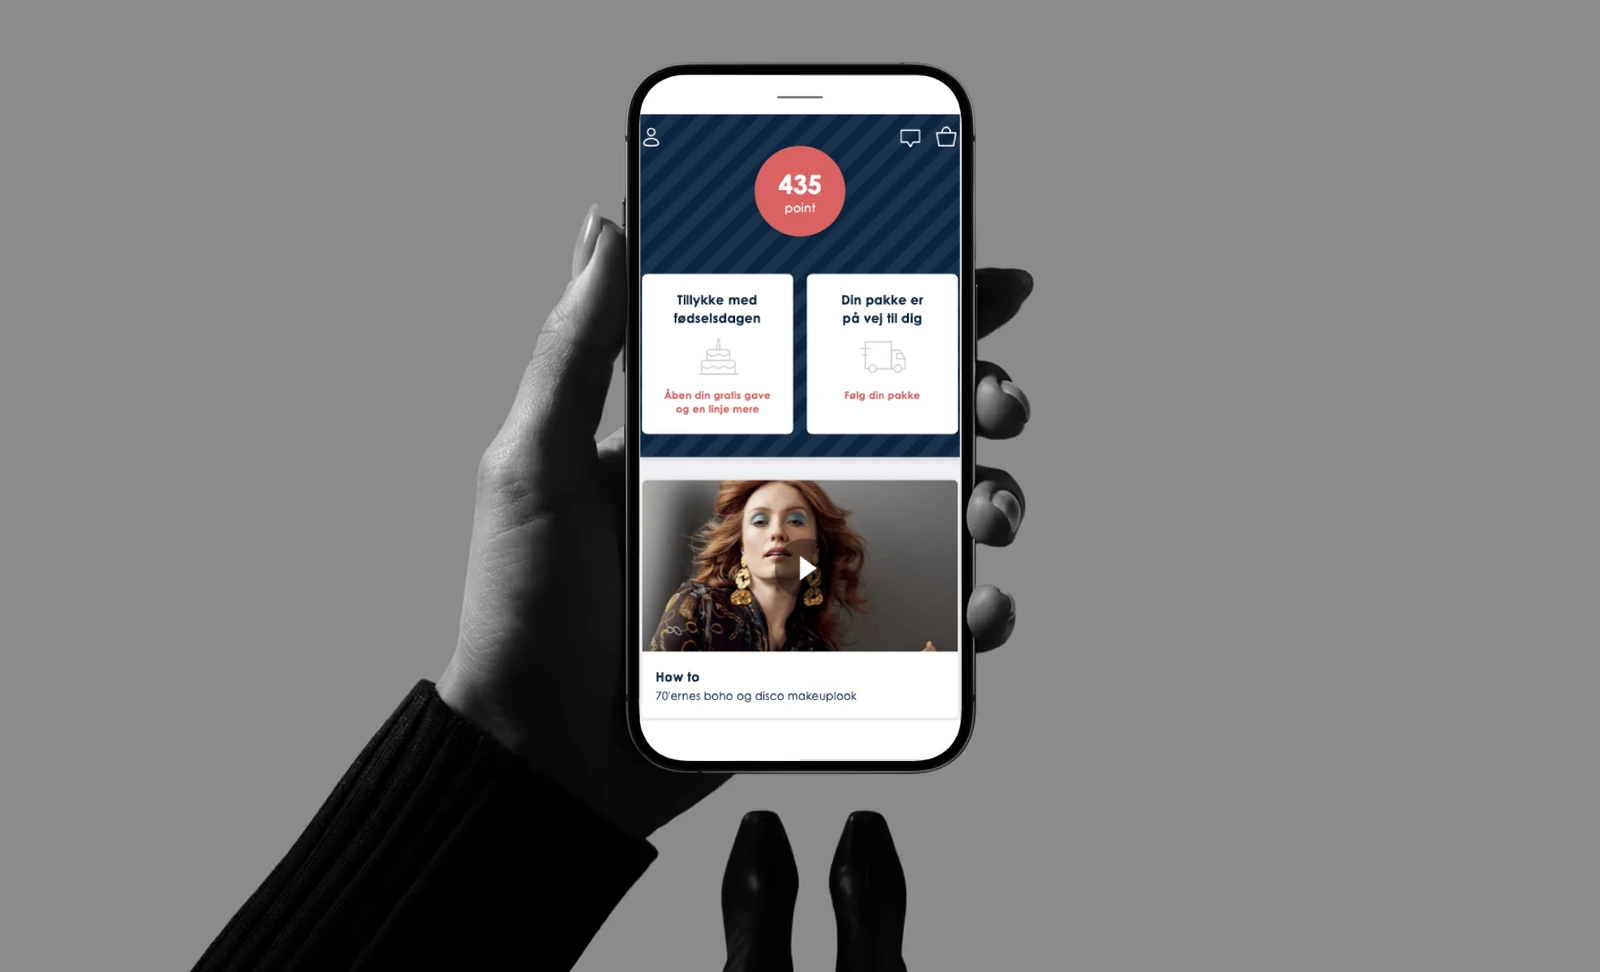
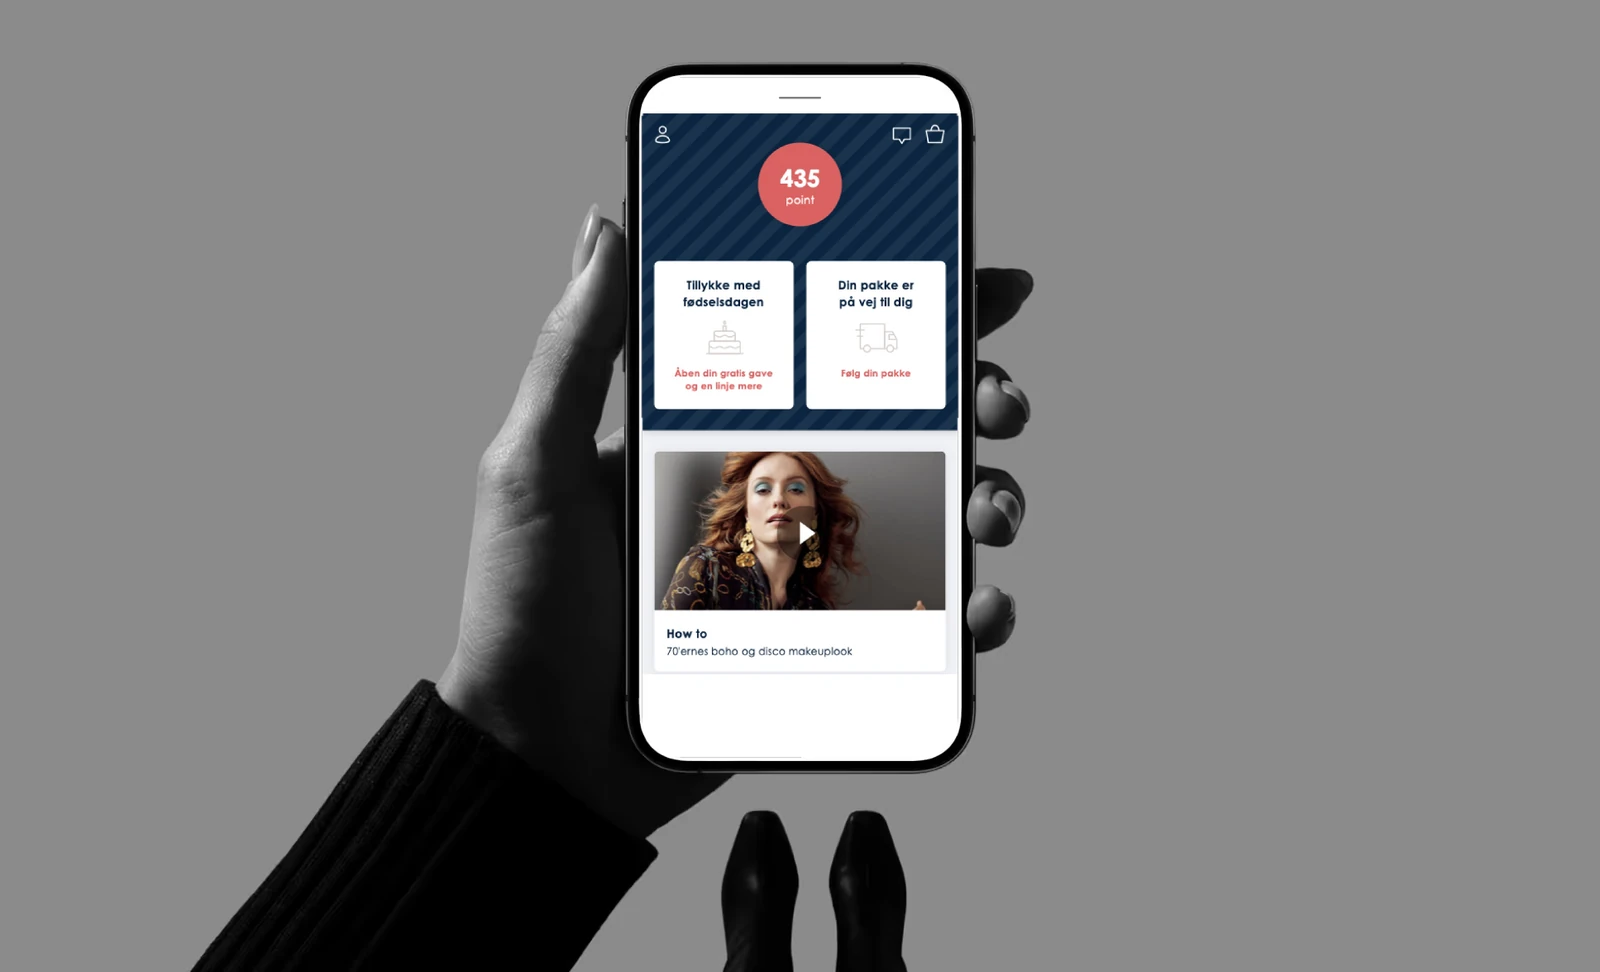
v2: put the hand back in front of the phone, and stop cropping the app screenshot
The pasted UI was covering everything the photograph draws over the glass —
the fingers curling past the bezel and the shadow they cast across the screen
edge — so each hand read as being behind the phone it was holding.

Brightness cannot tell the difference here. These mockups ship a placeholder
fintech app, so plenty of the screen is legitimately dark; a luminance ramp
punches that straight through, which is the same trap as the first version of
this script. Connectivity can tell: the hand is one mass of ~1.8M px that
reaches far outside the screen, while every dark element of the placeholder
lies wholly inside it. Only components with real area on both sides are held
back, and the held band ramps by luminance so a fingertip is solid and the
shadow's soft edge stays soft.

Connectivity alone over-reaches on one case: placeholder text that runs off the
edge touches the bezel and joins the hand's component, then ghosts through the
pasted UI. An opening separates them on stroke width, since a letter is a few px
thick and the shadow band is tens.

The quad is also pulled in 2.5px. Sampling across each fitted edge puts it
within ~2px of the glass, which is accurate but on the low side leaves the UI
bleeding onto the bezel.

Separately, the app screenshot is 0.500 against a 0.468 screen, and cover was
taking 6.4% off its width — the side margins are the layout, so it now keeps
its full width and grows downward instead. Its bottom 40 rows are flat white
[…]

Changed region(s): [[0.375, 0.1543, 0.625, 0.7407], [0.5625, 0.1235, 0.625, 0.1543], [0.375, 0.1235, 0.4375, 0.1543]]

diff --git a/tools/phone-composite.py b/tools/phone-composite.py
@@ -1,5 +1,5 @@
 import math, collections, os
-from PIL import Image, ImageDraw, ImageFilter
+from PIL import Image, ImageDraw, ImageFilter, ImageChops
 
 def hull(pts):
     pts=sorted(set(pts))
@@ -95,14 +95,73 @@ def screen_quad(path, thr=200):
     bl=min(bot,key=lambda k: math.dist(quad[k],quad[tl])); brc=bot[0] if bl==bot[1] else bot[1]
     return [quad[tl],quad[tr],quad[brc],quad[bl]], im
 
+def inset(q, d):
+    """Pull the quad in by d px along every edge. The fit lands within ~2px of the
+    glass, and on the low side the UI then bleeds onto the bezel."""
+    c=(sum(p[0] for p in q)/4, sum(p[1] for p in q)/4); lines=[]
+    for k in range(4):
+        a,b=q[k],q[(k+1)%4]
+        ex,ey=b[0]-a[0],b[1]-a[1]; L=math.hypot(ex,ey); ex,ey=ex/L,ey/L
+        nx,ny=-ey,ex
+        if (c[0]-a[0])*nx+(c[1]-a[1])*ny<0: nx,ny=-nx,-ny
+        lines.append(((a[0]+nx*d,a[1]+ny*d),(ex,ey)))
+    def it(l1,l2):
+        (x1,y1),(a1,b1)=l1; (x2,y2),(a2,b2)=l2
+        t=((x2-x1)*b2-(y2-y1)*a2)/(a1*b2-b1*a2); return (x1+a1*t,y1+b1*t)
+    return [it(lines[k-1],lines[k]) for k in range(4)]
+
+def occluders(base, quad, thr=235, lo=150):
+    """What sits in FRONT of the glass: the fingers curling over the edge and the
+    bezel shadow they cast across it. Brightness alone cannot say — these mockups
+    ship a placeholder app, so half the screen is legitimately dark. Connectivity
+    can: the hand is one enormous mass that reaches far outside the quad, while
+    every dark element of the placeholder lies wholly within it. Returns an alpha
+    where 255 keeps the UI; the held-back band ramps by luminance so a fingertip
+    is solid and the shadow's soft edge stays soft."""
+    w,h=base.size; g=base.convert('L'); gp=g.load()
+    inq=Image.new('L',(w,h),0); ImageDraw.Draw(inq).polygon([tuple(p) for p in quad],fill=255); ip=inq.load()
+    seen=bytearray(w*h); keep=None
+    for sy in range(h):
+        for sx in range(w):
+            j=sy*w+sx
+            if seen[j] or gp[sx,sy]>=thr: continue
+            q=collections.deque([(sx,sy)]); seen[j]=1; comp=[]; ins=0
+            while q:
+                x,y=q.popleft(); comp.append((x,y))
+                if ip[x,y]>=128: ins+=1
+                for dx,dy in ((1,0),(-1,0),(0,1),(0,-1)):
+                    nx,ny=x+dx,y+dy
+                    if 0<=nx<w and 0<=ny<h:
+                        k=ny*w+nx
+                        if not seen[k] and gp[nx,ny]<thr: seen[k]=1; q.append((nx,ny))
+            if len(comp)-ins>10000 and (keep is None or ins>keep[0]): keep=(ins,comp)
+    a=Image.new('L',(w,h),255)
+    if not keep: return a, 0
+    # Connectivity alone over-reaches: placeholder text that runs off the edge of
+    # the screen touches the bezel and joins the hand's component, then ghosts
+    # through the pasted UI. An opening separates them on stroke width — a letter
+    # is a few px thick, the shadow band and a fingertip are tens.
+    p=Image.new('L',(w,h),0); pp=p.load()
+    for x,y in keep[1]:
+        if ip[x,y]>=128: pp[x,y]=255
+    p=p.filter(ImageFilter.MinFilter(9)).filter(ImageFilter.MaxFilter(9))
+    pp=p.load(); ap=a.load(); n=0
+    for y in range(h):
+        for x in range(w):
+            if pp[x,y]<128: continue
+            v=gp[x,y]; ap[x,y]=0 if v<=lo else round(255*(v-lo)/(thr-lo)); n+=1
+    return a.filter(ImageFilter.GaussianBlur(1.0)), n
+
 JOBS=[('6a34624f7400e78c68c2c515_m1.png','matas-app-new.jpg','matas-scene-01'),
       ('6a34624fb70ca3d0d7dfc18d_m3.png','matas-points-ui.jpg','matas-scene-02'),
       ('6a34624f61bb6f90181cd492_m5.png','matas-rewards-ui.jpg','matas-scene-03')]
 CORNER=0.14
+INSET=2.5
 
 for mock,shot,out in JOBS:
     quad, base = screen_quad(f'tools/{mock}')
-    base=base.convert('RGBA'); w,h=base.size
+    quad = inset(quad, INSET)
+    w,h=base.size
     W=(math.dist(quad[0],quad[1])+math.dist(quad[3],quad[2]))/2
     H=(math.dist(quad[0],quad[3])+math.dist(quad[1],quad[2]))/2
     r=CORNER*W
@@ -110,9 +169,21 @@ for mock,shot,out in JOBS:
     ImageDraw.Draw(local).rounded_rectangle([0,0,round(W)-1,round(H)-1],radius=round(r),fill=255)
     mco=solve8([(0,0),(W,0),(W,H),(0,H)],quad)
     mask=local.transform((w,h),Image.PERSPECTIVE,mco,Image.BILINEAR).filter(ImageFilter.GaussianBlur(0.7))
+
+    # Let whatever sits in front of the glass stay in front of it.
+    occl, held = occluders(base, quad)
+    mask = ImageChops.multiply(mask, occl)
+
+    base=base.convert('RGBA')
     src=Image.open(f'public/images/matas/{shot}').convert('RGBA')
     t=W/H; sw,sh=src.size
-    if sw/sh>t: nw=int(sh*t); src=src.crop(((sw-nw)//2,0,(sw-nw)//2+nw,sh))
+    if sw/sh>t:
+        # Never crop an app screenshot horizontally — the side margins are the
+        # layout. Keep the full width and grow the canvas downward instead; the
+        # bottom rows of these captures are flat white, so the extension is invisible.
+        nh=round(sw/t); pad=Image.new('RGBA',(sw,nh))
+        pad.paste(src,(0,0)); pad.paste(src.crop((0,sh-1,sw,sh)).resize((sw,nh-sh)),(0,sh))
+        src=pad
     else:       nh=int(sw/t); src=src.crop((0,0,sw,nh))
     co=solve8([(0,0),(src.width,0),(src.width,src.height),(0,src.height)],quad)
     warped=src.transform((w,h),Image.PERSPECTIVE,co,Image.BICUBIC)
@@ -121,4 +192,6 @@ for mock,shot,out in JOBS:
         .save(f'public/images/matas/{out}.webp','WEBP',quality=90,method=6)
     sides=[math.dist(quad[i],quad[(i+1)%4]) for i in range(4)]
     print(f"  {out}: {round(W)}x{round(H)}  sides {[round(x) for x in sides]}  "
-          f"perspective taper {abs(sides[0]-sides[2]):.0f}/{abs(sides[1]-sides[3]):.0f}px")
+          f"taper {abs(sides[0]-sides[2]):.0f}/{abs(sides[1]-sides[3]):.0f}px  "
+          f"shot {'padded' if src.height>Image.open(f'public/images/matas/{shot}').height else 'cropped'} "
+          f"to {src.width}x{src.height}  in front of glass {100*held/(W*H):.1f}% of screen")
